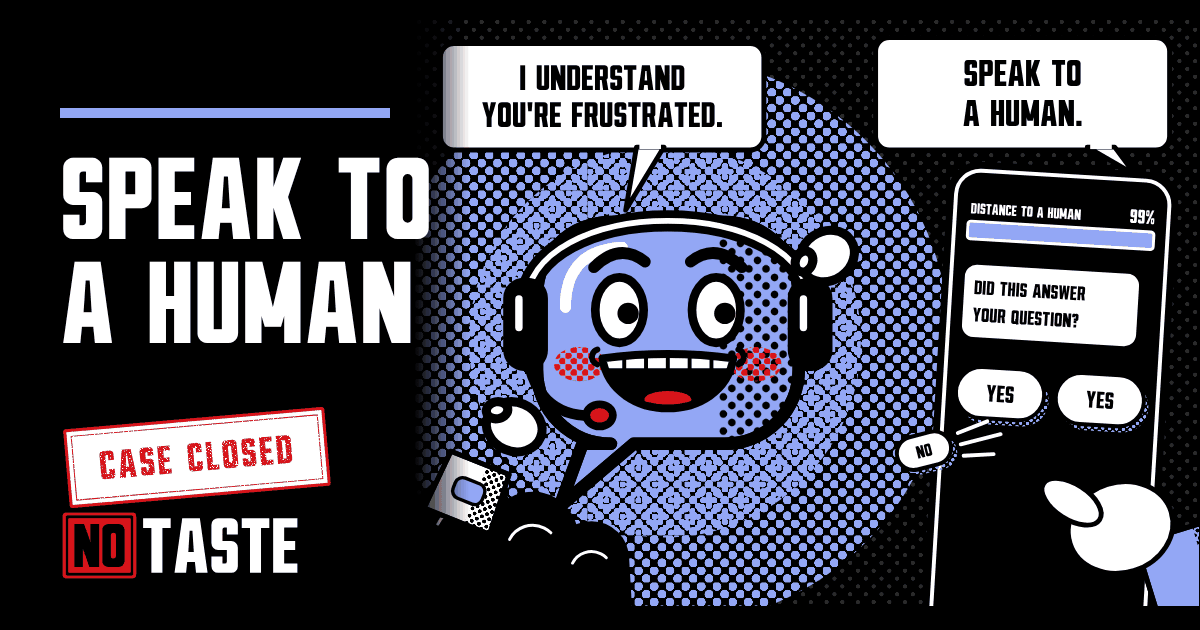
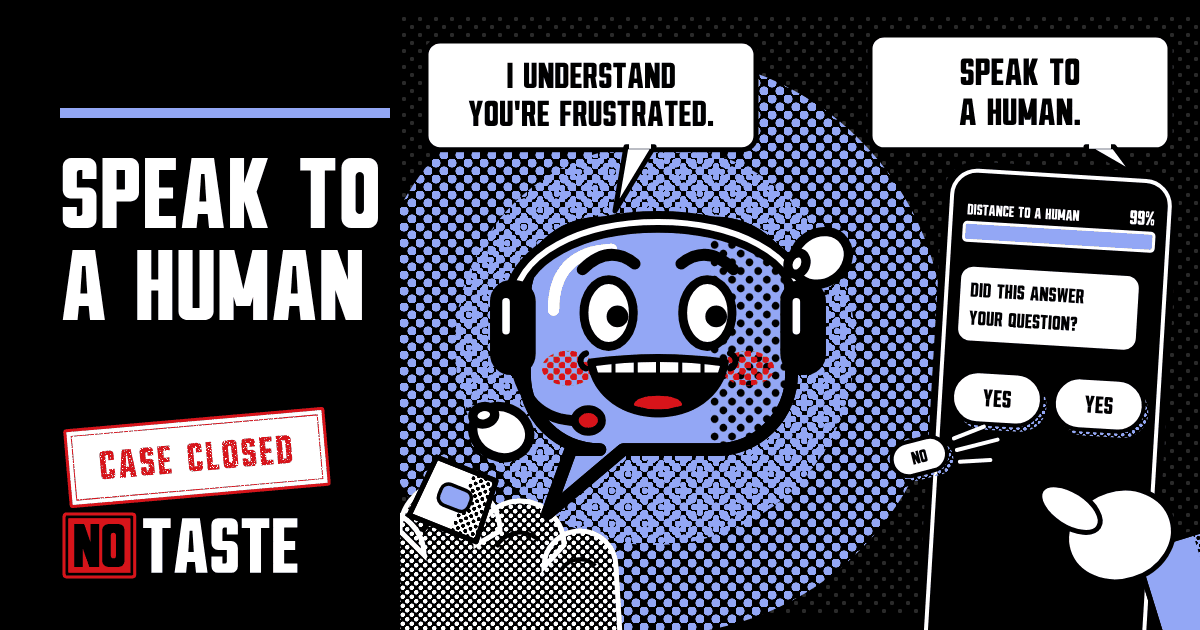
Speak to a Human: poster, cover hedge, share image, tray timing, design notes
Claude-Session: https://claude.ai/code/session_014GAJnR29xmt88poYrnPo6A

Changed region(s): [[0.0308, 0.0302, 1.0, 1.0], [0.0617, 0.9048, 0.0925, 0.9349], [0.0617, 0.8444, 0.0925, 0.8746]]

diff --git a/public/games/speak-to-a-human/speak-to-a-human.js b/public/games/speak-to-a-human/speak-to-a-human.js
@@ -492,6 +492,7 @@
     ex.state = "done";
     ex.wait = 0.5;
     ex.picked = c;
+    ex.doneAt = clock;
     c.pressed = clock;
     sg.pendingHeal = 0;
     auto = null;
@@ -611,7 +612,7 @@
     if (c.kind === "yes") callout("Ticket: closed", { routine: "closed", gap: 6 });
     else if (c.kind === "star") callout("Rated. Why", { routine: "rated", gap: 6 });
     else if (c.kind === "number") callout("Wrong order", { routine: "wrongno", gap: 6 });
-    else callout("Loop detected", { routine: "loop", gap: 5 });
+    else callout("Played along", { routine: "along", gap: 5 });
     ex.wait = 0.75;
   }
 
@@ -1391,9 +1392,11 @@
     var fadeOut = ex.state === "done" ? clamp(1 - ex.wait / 0.12, 0, 1) : 0;
     ex.chips.forEach(function (c) {
       if (c.gone) return;
+      // once you've picked, the others go (quickly), and yours follows
       if (ex.state === "done" && c !== ex.picked) {
-        if (calm || ex.wait < 0.3) return;
+        if (calm || ex.wait < 0.3 || clock - (ex.doneAt || 0) > 0.22) return;
       }
+      if (ex.state === "done" && c === ex.picked && clock - (ex.doneAt || 0) > 0.6) return;
       drawChip(c, chipRect(c), fadeOut);
     });
   }
@@ -1649,7 +1652,7 @@
       else if (f.where === "batt") { x = 96; y = hudB + 14; size = 16; }
       else { x = Lay.chat.x + Lay.chat.w - 40; y = Lay.chat.y + Lay.chat.h - 30; size = 14; color = T.accent; }
       // clear of the streak pips under the middle of the bar on a wide screen
-      if ((f.where === "bar" || f.where === "heal") && Math.abs(x - (Lay.wide ? b.x + b.w / 2 : b.x + 20)) < Math.max(4, b.h * 0.3) * 4 + 30) y += 22;
+      if ((f.where === "bar" || f.where === "heal") && Math.abs(x - (Lay.wide ? b.x + b.w / 2 : b.x + 20)) < Math.max(4, b.h * 0.3) * 4 + 30) y += 30;
       y -= (calm ? 0 : k * 16);
       ctx.save();
       ctx.globalAlpha = 1 - clamp((a - 0.5) / 0.4, 0, 1);

diff --git a/public/index.html b/public/index.html
@@ -218,7 +218,7 @@
             <a class="btn btn--light" href="/games/scrubbed/">Play Scrubbed</a>
           </div>
         </article>
-        <article class="poster poster--feature" style="--accent:#93a7f5; --sx:48%; --sy:66%; --sr:-5deg" aria-labelledby="t-human">
+        <article class="poster" style="--accent:#93a7f5; --sx:72%; --sy:56%; --sr:-6deg" aria-labelledby="t-human">
           <a class="poster-art" href="/games/speak-to-a-human/" tabindex="-1" aria-hidden="true">
             <img src="/art/speak-to-a-human.svg" width="800" height="600" alt="" loading="lazy">
             <span class="stamp-label">Case closed</span>
@@ -227,7 +227,6 @@
             <h3 class="poster-title" id="t-human"><a href="/games/speak-to-a-human/">Speak to a Human</a></h3>
             <p class="poster-line">Your food never came. The help chat is a bot. Get past it. It is never rude, and it never helps.</p>
             <p class="poster-status"><span class="dot" aria-hidden="true"></span>Playable now. Four orders and a Dave.</p>
-            <a class="btn btn--light" href="/games/speak-to-a-human/">Play Speak to a Human</a>
           </div>
         </article>
       </div>

diff --git a/DESIGN.md b/DESIGN.md
@@ -558,30 +558,35 @@ Space Billionaire's reusable rocket comes back down tail first, and you land it.
 
 Your food never came, and the help chat is a bot. Four orders go wrong (a missing drink, cold chips, dinner in a hedge, a £14 coffee that was mostly fees) and each one is a fight with the chat to get your money back. The joke is apps that put a bot between you and anyone who can help. The app ("A Delivery App") is invented. The riders, the support staff and you are never the joke: the bot is, and so is the company that bought it.
 
-**Assistant**, the bot: a periwinkle speech bubble with a tail, a headset with a red microphone, red halftone cheeks and a grin that never changes. It's an exception to section 7's furious faces, on purpose: the smile is the joke, so it stays whatever happens. It bounces when hit, tilts its head when it "understands", glows when it heals, and sweats when the bar gets low. It is never rude and it never helps.
+**Assistant**, the bot: a periwinkle speech bubble with a tail, a headset with a red microphone, red halftone cheeks and a grin that never changes. It's an exception to section 7's furious faces, on purpose: the smile is the joke, so it stays whatever happens. It acts: it leans in while it types, holds a mitten out at the replies like a game show host, bounces when hit, tilts its head when it "understands", and its microphone swells and sends rings out while it heals. It sweats when the bar gets low. It is never rude and it never helps.
 
-**Dave**, the human: the house cut-out in a periwinkle polo with a "Dave" badge, a side parting, a red moustache and Assistant's grin underneath it. The same exception: he smiles throughout. The moustache slips as his bar goes down, and when he's beaten it comes off and he glitches into Assistant for a moment.
+**Dave**, the human: the house cut-out in a periwinkle polo with a "Dave" badge, a side parting, a moustache and Assistant's grin underneath it. The same exception: he smiles throughout. The moustache slips as his bar goes down. When he's beaten he's drawn big over everything: the moustache comes off, and underneath, for a moment, he's Assistant.
 
-**The screen.** The chat is the whole game: the bot (or Dave) at the top beside its bar, "Distance to a human" going from 100% to 0, the messages under it, and a tray of reply chips at the bottom, at least 56px tall on touch, numbered 1 to 4 for keys. A wide screen puts the bot in a column on the left and the chat on the right; a phone stacks them. The order card (what went wrong, what it cost, and the order number) sits at the top of each chat. Patience is five periwinkle pips in the HUD.
+**The rider**, on the tracking screen: a cut-out on a scooter, side on, in a paper helmet with a red stripe, with the periwinkle bag on his back. He circles the block. He is never the joke; the tracking is.
 
-**The tracking screen** opens each order: a map in halftone blocks and paper roads, the rider's dot circling the block, "Your rider is 2 minutes away" while the minutes since you ordered race up, then Delivered and a polaroid of what arrived (no drink, limp chips, a bag in a hedge, a receipt that says "Mostly fees"). It's six seconds, any key or tap skips it, and a restarted round skips it altogether.
+**The screen.** The chat is the whole game: the bot (or Dave) beside its bar, "Distance to a human" going from 100% to 0, the order pinned at the top of the chat the whole time (its number, what it was, what it cost), the messages under it, and a tray of four reply chips at the bottom, at least 56px tall on touch, numbered 1 to 4 for keys. A wide screen gives the bot a column of its own, big; a phone puts it big across the top, beside the bar. A new chat starts at the top, like a new chat does. The battery is in the HUD: a paper cell filled in periwinkle, blinking under 20% (steady with reduced motion).
 
-**The loop.** Assistant types (dots, so you know it's coming), then offers four replies. One is true; the rest play along, and from the second order some are made to look like the true one ("No, that did help", "I want a refund voucher"). A true reply moves the bar; a quick one moves it more, and true replies in a row stack. Three in a row earns the Speak to a human chip, which hits hardest. A wrong reply costs a patience and heals the bot. Out of patience, you close the app and the round ends.
+**The tracking screen** opens each order: a map in halftone blocks and paper roads, the rider going round the block, "Your rider is 2 minutes away" while the minutes since you ordered race up, then Delivered and a polaroid of what arrived (no drink, limp chips, a bag in a hedge, a receipt that says "Mostly fees"). It's six seconds, any key or tap skips it, and a restarted round skips it altogether.
+
+**The loop: read the bot.** Assistant types, then says something, and offers four replies. Every line has its own (lines.js): one answers what it just said and doesn't let it off ("Have you checked behind your bins?" "I don't have bins."); the other three look like it, but they go along with it ("I'll check my bins"), dodge it ("Which bins?") or thank it ("Thanks, bins"). Each order has twelve lines of its own and a share of twenty-four that could be said to anyone, dealt so nothing comes round twice in a round, so you can't learn a pattern: you have to read the joke to beat it, and the joke is the move. A true reply moves the bar; a quick one moves it more, and true replies in a row stack. Three in a row earns the Speak to a human chip, which hits hardest: the bar drops, the screen shakes, the bot steps back, "A human is typing" in a periwinkle bubble, and then it's Assistant again ("Hello again. It's Assistant. The human was me.").
+
+**The battery** is what runs out. It drains while you're in the chat, and every reply that plays along takes 12% (and heals the bot). Between orders it gets 6% back, no more, so a sloppy first order is felt in the fourth. At 0% the screen goes off and the round is over.
 
 **What only it does.**
-- The bot fights back, each trick announced with a notice the first time: "Did this answer your question?" with Yes and Yes, and a small No drifting underneath that shrinks away; "Can I take your order number again?" with four lookalike numbers; "I understand you're frustrated", which heals the bot (the heal shows on the bar in red) unless a true reply interrupts it; "Are you still there?" on a fuse, which starts the chat again from hello if missed; a satisfaction survey over the chips, five big stars that each heal it and a small No thanks that moves between corners; and replies that drift, swap places and, on the last order, shrink until they're gone.
+- The bot fights back. Each order's countdown notice says what's new in it; in play, only the pointer teaches (a dashed paper ring round the reply and a word on its edge, the first time each one comes up), so nothing covers the chat. The tricks: "Did this answer your question?" with Yes and Yes, and a small No drifting underneath that shrinks away; "Can I take your order number again?" with four lookalike numbers (yours is pinned at the top); "I understand you're frustrated", which heals the bot (shown on the bar in red) unless a true reply interrupts it; "This chat will close due to inactivity", while you're mid-reply, on a fuse (miss it and the chat starts again from hello); a satisfaction survey over the chips, five big stars that each heal it and a small No thanks that moves between corners; and replies that drift, swap places (after a shake) and, on the last order, shrink until they're gone.
 - From the second order, when it's losing, it offers a 50p voucher, once an order. Take it and the order ends for 50p.
-- A pointer (a dashed paper ring round the chip and an arrow with its key or a word) marks the true reply the first time you need it: the first message, the first Speak to a human chip, the first Yes or yes, the first survey and the first "Are you still there?". Once you've done each, it's gone.
-- Keys follow the place, not the reply: when chips swap, 1 is still the leftmost.
+- Keys follow the place, not the reply: when chips swap, 1 is still the top left.
+- The kit's notice can't be taken down early, so the game puts it up again for a millisecond when the chat starts, which fades it out.
 - Speech is square-wave blips, one a word, the bot's high and Dave's lower; a fuse ticks faster as it runs out.
-- With reduced motion, chips don't wander or slide (swaps happen in one go), the survey's No thanks stays put, the bot doesn't bounce and the screen doesn't shake.
+- With reduced motion, chips don't wander, slide or bounce in (swaps happen in one go), the survey's No thanks stays put, the bot doesn't bob or lean, Dave's unmasking doesn't flicker, and the screen doesn't shake.
+- The clip frame lays itself out: the bot across the top, bigger words and chips, no notices and no "skip" hint.
 
-**Stamp words and callouts.** Case closed (the game's stamp). Escalated, Interrupted, Not yes, Order number: confirmed, Wrong order, Ticket: closed, Rated. Why, Survey: dismissed, Loop detected, Voucher: declined, Voucher: accepted. Sadly, Patience: low, Refund: pending review, A human. Allegedly, Moustache: detached, App: closed. Routine ones are rationed so they don't repeat within a few seconds.
+**Stamp words and callouts.** Case closed (the game's stamp). Escalated, Interrupted, Not yes, Played along, Order number: confirmed, Wrong order, Ticket: closed, Rated. Why, Survey: dismissed, Loop detected, Voucher: declined, Voucher: accepted. Sadly, Battery: low, Phone: dead, Refund: pending review, A human. Allegedly, Moustache: detached. Routine ones are rationed so they don't repeat within a few seconds.
 
-**Between orders** three of six ways to get ready, each with a cost: Type in capitals, Say agent repeatedly, Threaten a review, Screenshot your order, Charge your phone, Turn notifications on. Each lasts one order, and patience comes back by one.
+**Between orders** you pick how you go into the next chat, each with a cost on its card: Type in capitals, Say agent repeatedly, Threaten a review, Low power mode, Plug in the charger, Turn notifications on. The first two interludes offer different halves of the six, and the third deals from what you haven't picked. The joke about the last order is the interlude's heading ("£24.60 back. Hedge not charged."), because a short screen hides the line.
 
-**Scoring and the ladder.** The refund in pence, plus up to 300 a full refund for time against par. Approved: all four refunded in full, Dave beaten, and at least 5,300. Pending review: finished with two or more in full. Not approved: finished on vouchers, or closed the app on the hedge or the coffee. Rejected: closed the app on the drink or the chips. The share line: "£44.60 of £44.60 refunded in 1:52, Dave unmasked", or "closed the app on the hedge, £6.00 refunded".
+**Scoring and the ladder.** The refund in pence, plus up to 300 for each full refund for time against par, plus 4 points for every 1% of battery left at the end. Approved: all four refunded in full, Dave beaten, and at least 5,750, which takes quick, clean reading all the way (test players who read fast and slip about one time in twenty get it about one round in three; average ones rarely do). Pending review: finished with two or more in full. Not approved: finished on vouchers, or the phone died on the hedge or the coffee. Rejected: the phone died on the drink or the chips. The results line never repeats the heading. The share line: "£44.60 of £44.60 refunded in 1:52, 41% battery left, Dave unmasked", or "my phone died on the hedge, £6.00 refunded".
 
-**Today's run** deals every order from its own seeded stream: order numbers, messages, replies, places, the tricks in order and the ways to get ready.
+**Today's run** deals every order from its own seeded stream: order numbers, the lines and their replies, where each reply sits, the tricks in order, what it says when you play along, and the ways in.
 
-**The cover** is Assistant, big, on a periwinkle burst ("I understand you're frustrated."), beside a phone asking "Did this answer your question?" with Yes and Yes, a small No escaping off its side, your mitten on the phone ("Speak to a human."), and the order in a hedge.
+**The cover** is Assistant, big, on a periwinkle burst ("I understand you're frustrated."), beside a phone asking "Did this answer your question?" with Yes and Yes, a small No escaping off its side, your mitten on the phone ("Speak to a human."), and the order in a hedge (paper halftone on black with a paper edge, so it reads). The share image is the cover at its own size on the right, whole, with the words on black on the left.
